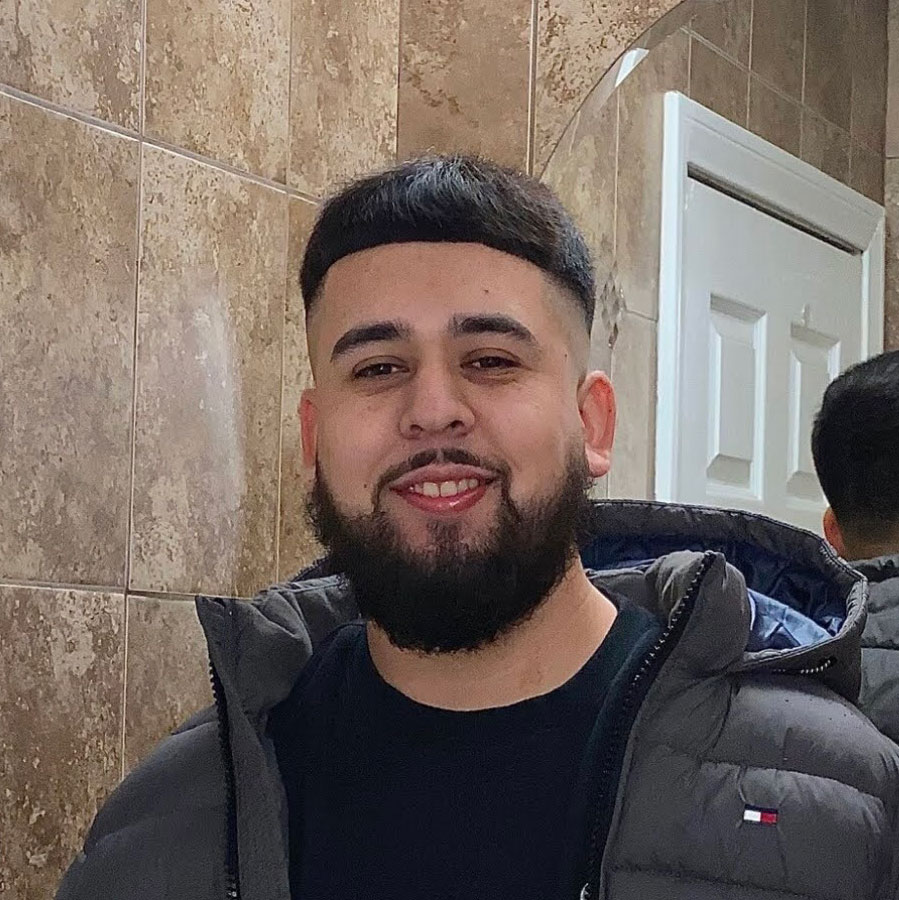
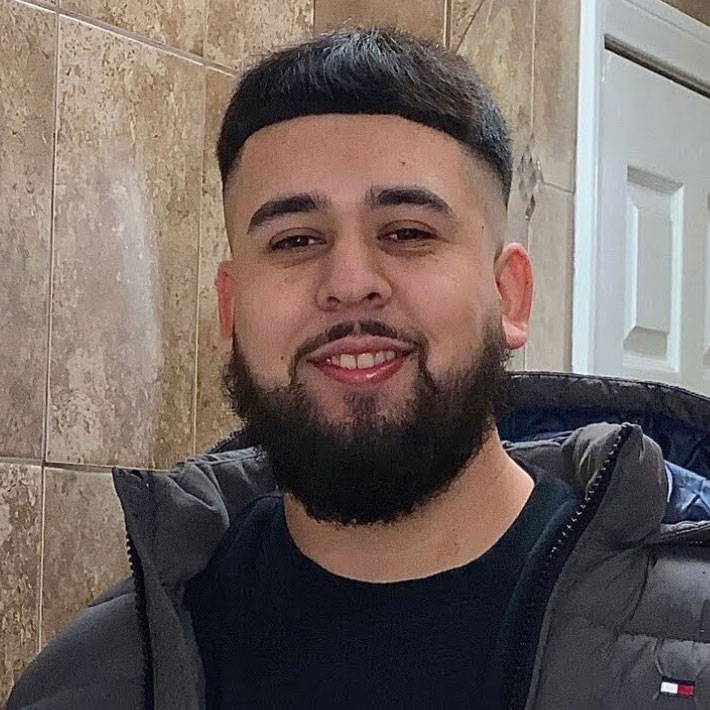
Updated the hero section

diff --git a/index.html b/index.html
@@ -139,6 +139,7 @@
             <div class="hero-grid">
                 <div class="hero-textbox">
                     <div class="textbox-background ">
+                        
                         <div class="top-Text">Hi There 👋. Im</div>
                         <div class="main-Text typewriter">
                             <h1>Oscar</h1>
@@ -149,9 +150,20 @@
                         <div class="base">
                             Based in Los Angeles, CA 📍🌴
                         </div>
+                        <!-- <img src="/assets/images/me.jpg" alt=""> -->
+                    </div>
+                </div>
+                <div class="hero-textbox-2">
+                    <div class="textbox-background ">
+                       <img src="/assets/images/me.jpg" alt="">
                     </div>
                 </div>
             </div>
+            <!-- <div class="custom-shape-divider-bottom-1652118719">
+                <svg data-name="Layer 1" xmlns="http://www.w3.org/2000/svg" viewBox="0 0 1200 120" preserveAspectRatio="none">
+                    <path d="M321.39,56.44c58-10.79,114.16-30.13,172-41.86,82.39-16.72,168.19-17.73,250.45-.39C823.78,31,906.67,72,985.66,92.83c70.05,18.48,146.53,26.09,214.34,3V0H0V27.35A600.21,600.21,0,0,0,321.39,56.44Z" class="shape-fill"></path>
+                </svg>
+            </div> -->
         </div>
 
 
@@ -371,43 +383,50 @@
                 <div class="container">
                     <div class="row">
 
-                        <div class="project-Column col-sm-12 col-md-12 col-lg-6">
+                        <div class="project-Column col-sm-12 col-md-12 col-lg-12">
                             <div class="text-Column col">
                                 <div class="text">
-                                    <!-- Part of the process in creating beautiful storefronts for Shopify is building the static pages for 
-                                    the site and ensuring everything is cross-browser compatible and of course mobile friendly.
-                                    For demonstration purposes only, I created 3 sample pages that will be used for a Shopify store 
-                                    down below called The Keyboard Crew. -->
-                                    TYPE: Front End Development
+                                    Project Type: Front End Development for an E-Commerce Store
                                 </div>
-                                <div class="text">
+                                <!-- <div class="text">
                                     Developed the static layouts for an E-Commerce site with the goal of creating a custom mobile friendly and cross-browser compatible shopping experience. 
                                 </div>
                                 <div class="text">
                                     Feel free to click and view each page for yourself :)!
+                                </div> -->
+                                <div class="text">
+                                   Project Details: I developed the static pages for a Shopify E-Commerce business using HTML, CSS, JS, and other front end tools such as bootstrap and jQuery. 
                                 </div>
                             </div>
                         </div>
 
-                        <div class="project-Column col-sm-12 col-md-12 col-lg-6">
+                        <div class="project-Column col-sm-12 col-md-12 col-lg-4">
+                            <div class="page-Title">HOME PAGE</div>
                             <a target="_blank" href="https://master--willowy-chimera-46e437.netlify.app/">
                                 <img loading="lazy" src="/assets/images/home-page.jpg" alt="">
                             </a>
-                            <div class="page-Title">HOME PAGE</div>
+                            
+                            <div class="page-Title">
+                                <button class="project-Btn">
+                                    <a href="">View Now</a>
+                                </button>
+                            </div>
                         </div>
 
-                        <div class="project-Column col-sm-12 col-md-12 col-lg-6">
+                        <div class="project-Column col-sm-12 col-md-12 col-lg-4">
+                            <div class="page-Title">PRODUCT PAGE</div>
                             <a target="_blank" href="https://master--willowy-chimera-46e437.netlify.app/main-product">
                                 <img loading="lazy" src="/assets/images/product.jpg" alt="">
                             </a>
-                            <div class="page-Title">PRODUCT PAGE</div>
+                            
                         </div>
 
-                        <div class="project-Column col-sm-12 col-md-12 col-lg-6">
+                        <div class="project-Column col-sm-12 col-md-12 col-lg-4">
+                            <div class="page-Title">CART PAGE</div>
                             <a target="_blank" href="https://master--willowy-chimera-46e437.netlify.app/cart">
                                 <img loading="lazy" src="/assets/images/cart-page.jpg" alt="">
                             </a>
-                            <div class="page-Title">CART PAGE</div>
+                            
                         </div>
                         
                     </div>

diff --git a/assets/css/main.css b/assets/css/main.css
@@ -6,7 +6,7 @@
     z-index: 10;
 }
 #header .header-Row{
-    background-color: #fff675;
+    background-color: #fff88f;
     padding: 1em 0;
 }
 
@@ -84,13 +84,15 @@ font-size: 20px;
 
 .hero-section {
     line-height: 1.35;
-    background-color: #fff675;
+    background-color: #fff88f;
 }
 .hero-section .hero-grid{
+    max-width: 1500px;
     display: grid;
     column-gap: 0px;
     grid-template-columns: auto repeat(24, 1fr) auto;
-    grid-template-rows: 16em 8em 1fr 1.5em auto 24em 1em;
+    grid-template-rows: 8em 8em 8em 1fr 1.5em auto 24em 1em;
+    /* grid-template-rows: 16em 8em 1fr 1.5em auto 24em 1em; */
     height: auto;
     box-sizing: border-box;
     margin: 0px;
@@ -125,7 +127,7 @@ font-size: 20px;
     display: none;
 }
 .hero-section .hero-grid .hero-textbox{
-    grid-area: 3 / 3 / 5 / 15;
+    grid-area: 3 / 3 / 5 / 17;
     opacity: 1;
     align-self: center;
     min-width: 21em;
@@ -133,7 +135,7 @@ font-size: 20px;
     z-index: 3;
 }
 .hero-section .hero-grid .hero-textbox-2{
-    grid-area: 1 / 16 / 5 / 25;
+    grid-area: 1 / 13 / 5 / 17;
     opacity: 1;
     align-self: center;
     min-width: 21em;
@@ -141,13 +143,17 @@ font-size: 20px;
     z-index: 3;
 }
 .hero-section .hero-grid .hero-textbox-2 img{
-    width: 80%;
-    background-color: white;
+    width: 250px;
+    /* background-color: white; */
     padding: 0em;
     border-radius: 50%;
-    border: 4px solid;   
-    box-shadow: rgba(0, 0, 0, 0.472) 18px 18px 0px 0px;
+    border: 4px solid #fffcc6;
+    box-shadow: rgba(0, 0, 0, 0.472) 0px 0px 7px 7px;
 }
+/* .hero-section .hero-grid .hero-textbox-2 .textbox-background {
+z-index: 99999999;
+background-image: url(/assets/images/me.jpg);
+} */
 .hero-section .top-Text{
     font-size: 24px;
     font-weight: 900;
@@ -199,6 +205,32 @@ padding: 15px 40px;
 
 
 
+/* .custom-shape-divider-bottom-1652118719 {
+    position: absolute;
+    bottom: 0;
+    left: 0;
+    width: 100%;
+    overflow: hidden;
+    line-height: 0;
+    transform: rotate(180deg);
+}
+
+.custom-shape-divider-bottom-1652118719 svg {
+    position: relative;
+    display: block;
+    width: calc(185% + 1.3px);
+    height: 213px;
+}
+
+.custom-shape-divider-bottom-1652118719 .shape-fill {
+    fill: rgb(0, 0, 0);
+} */
+
+
+
+
+
+
 
 .bold-Title{
     font-size: 22px;
@@ -225,7 +257,7 @@ padding: 15px 40px;
     /* About Me Section */
 #about-Me--Section{
     padding: 10em 0em;
-    background-color: #fff675;
+    background-color: #fff88f;
 }
 
 
@@ -282,7 +314,7 @@ padding: 15px 40px;
 
 /* Tech Stack */
 #web-Technologies--Section {
-    background-color: #fff675;
+    background-color: #fff88f;
     padding: 10em 0;
 }
 .title-Row{
@@ -332,14 +364,14 @@ padding: 15px 40px;
 
 
 #latest-Work--Section{
-    background-color: #fff675;
+    background-color: #fff88f;
     padding: 10em 0;
 
 }
 
 #latest-Work--Section .project-Column{
     text-align: center;
-    margin-bottom: 0em;
+    margin-bottom: 3em;
 }
 
 #latest-Work--Section img {
@@ -349,9 +381,10 @@ padding: 15px 40px;
     /* box-shadow: rgb(0, 0, 0) 15px 15px 0px 0px; */
     box-shadow: rgba(0, 0, 0, 0.472) 18px 18px 0px 0px;
 }
-#latest-Work--Section .text-Column{
+/* #latest-Work--Section .{
     background: rgb(224, 255, 138);
-}
+    padding-bottom: 3em;
+} */
 
 
 
@@ -374,7 +407,7 @@ padding: 15px 40px;
 
 /* Current Work */
 #current-Work--Section{
-    background-color: #fff675;
+    background-color: #fff88f;
     padding: 6em 0;
 
 }
@@ -459,7 +492,7 @@ padding: 15px 40px;
 
 
 #contact-Section{
-    background: #fff675;
+    background: #fff88f;
     padding: 8em 0em;
 }
 #contact-Section .text-Column{
@@ -528,9 +561,36 @@ padding: 15px 40px;
 
 
     /*---------- Hero Section -----------*/
+    .hero-section .hero-grid{
+        grid-template-rows: 20em 4em 1fr 1.5em auto 2em;
+    }
+    .hero-section .hero-grid .hero-textbox{
+        grid-area: 2 / 3 / 5 / 25;
+        min-width: 12em;
+    }
     .hero-section .hero-grid .hero-textbox .textbox-background{
       padding: 2em 2em 2em;
     }
+
+    .hero-section .hero-grid .hero-textbox-2 img {
+        width: 200px;
+    }
+
+    .hero-section .hero-grid .hero-textbox-2 {
+        grid-area: 1 / 17 / 5 / 21;
+        opacity: 1;
+        align-self: center;
+        min-width: 21em;
+        max-width: 900px;
+        z-index: 3;
+      }
+
+
+
+
+
+
+
 
 
 
@@ -562,18 +622,16 @@ padding: 15px 40px;
     }
 
 /*---------- Hero Section -----------*/
-.hero-section .hero-grid{
-    grid-template-rows: 20em 4em 1fr 1.5em auto 2em;
-}
-.hero-section .hero-grid .hero-textbox{
-    grid-area: 2 / 5 / 5 / 23;
-    min-width: 12em;
-}
+
 .hero-section .hero-grid .hero-textbox .textbox-background{
     padding: 2em 2em 2em;
 }
-
-
+.hero-section .hero-grid .hero-textbox-2 img {
+    width: 225px;
+}
+.hero-section .hero-grid .hero-textbox-2 {
+    grid-area: 1 / 18 / 5 / 20;
+  }
 
 
 
@@ -628,7 +686,9 @@ padding: 15px 40px;
 .hero-section .main-Text h1{
     font-size: 70px;
   }
-
+.hero-section .hero-grid .hero-textbox-2 img{
+    width: 55%;
+}
 
 
 
@@ -734,8 +794,12 @@ padding: 1em 1em 2em;
     bottom: 3px;
   }
 
-
-
+  .hero-section .hero-grid .hero-textbox-2 {
+    grid-area: 4 / 14 / 11 / 18;
+  }
+  .hero-section .hero-grid .hero-textbox-2 img {
+    width: 40%;
+  }
 
 
 
@@ -765,7 +829,7 @@ padding: 1em 1em 2em;
 
 
 .section-Title {
-    font-size: 50px;
+    font-size: 35px;
   }
   
 
